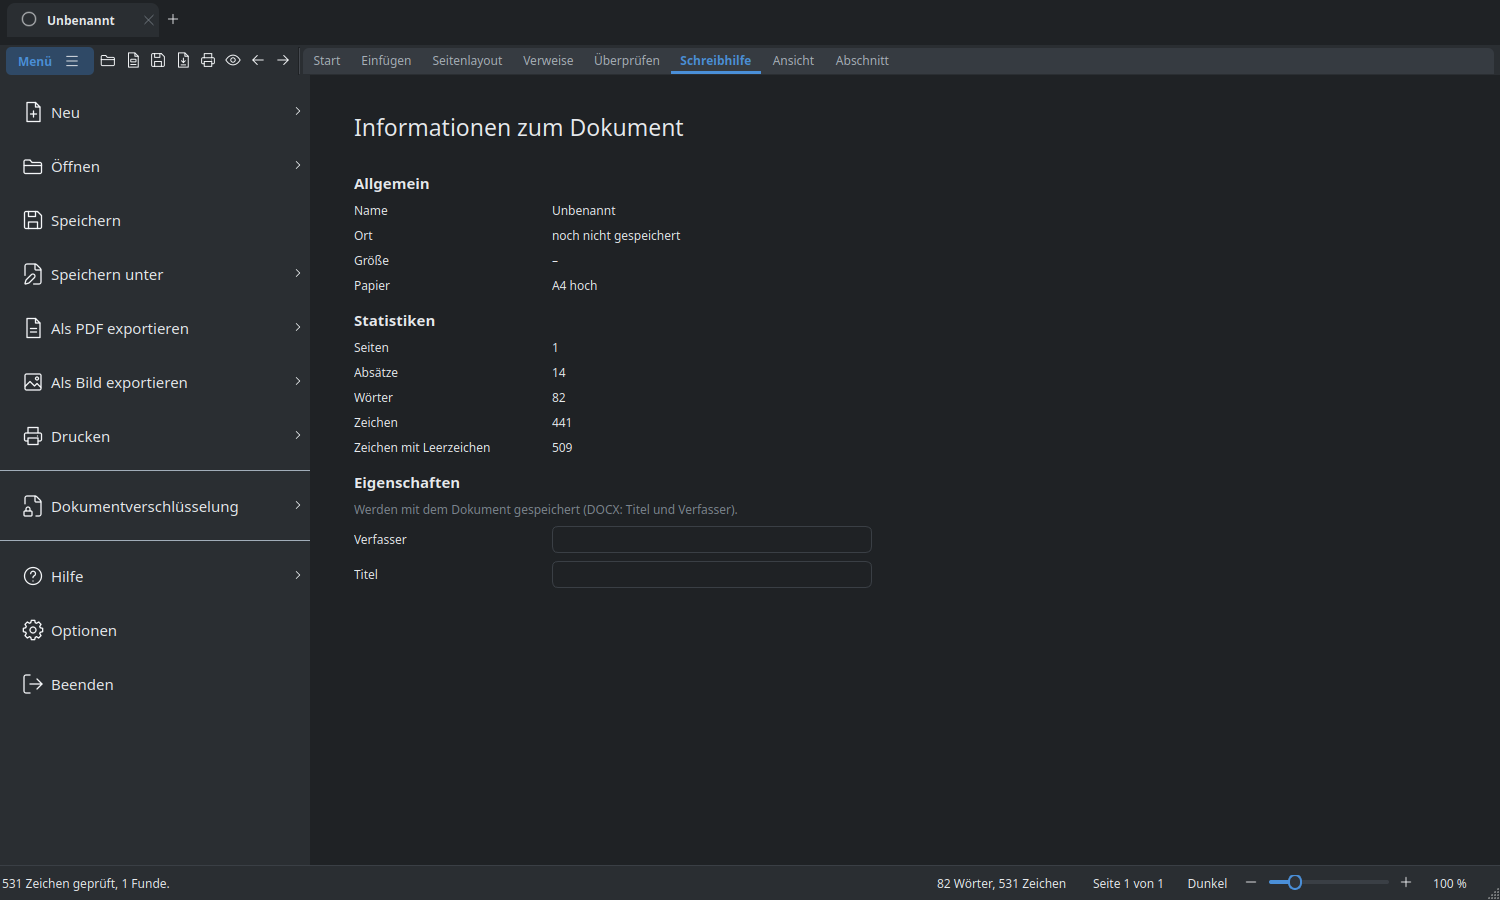
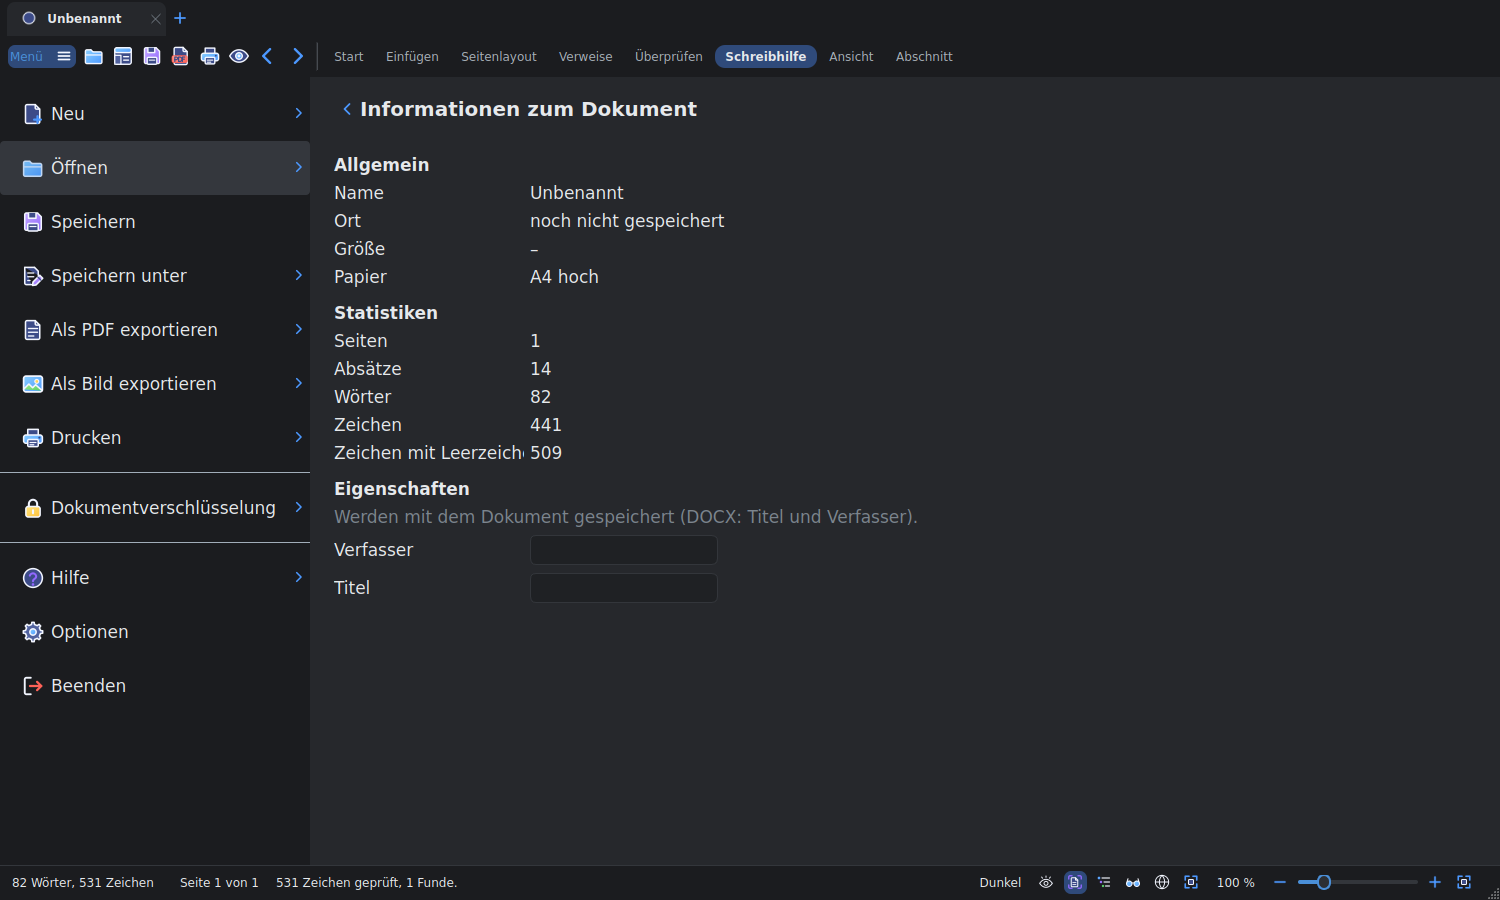
Bildschirmfotos neu aufgenommen: Bilder zeigen die heutige Oberfläche; Aufnahme-Skript läuft wieder
Das Aufnahme-Skript nutzt nicht mehr das entfernte Paket lunivo_writer und nicht mehr
das alte Qt-Dokumentmodell: Fenster mit eigenen, leeren Einstellungsordnern, Text,
Tabelle, Form und Abschnittswechsel über die heutigen Programmbefehle.
Neu: alle qt-*.png, rechtsklick.png, titel-hell/-dunkel.png und titelbild.png.
Außerdem: architektur.png aktualisiert, diagramm.png entfernt.

diff --git a/werkzeuge/erstellung/bildschirmfotos.py b/werkzeuge/erstellung/bildschirmfotos.py
@@ -14,10 +14,17 @@ sys.path.insert(0, os.path.join(WURZEL, "src"))
 os.environ.setdefault("QT_QPA_PLATFORM", "offscreen")
 ZIEL = os.path.join(WURZEL, "ressourcen", "bilder")
 
-from PySide6.QtCore import QEventLoop, QSettings, QTimer  # noqa: E402
+# Eigene, leere Einstellungs- und Datenordner: Die Aufnahmen zeigen den Auslieferungszustand und berühren die echten Benutzerdaten nicht.
+# Das Programm liest seine Orte aus den XDG-Variablen; sie müssen vor dem ersten Import gesetzt sein.
+_ORT = tempfile.mkdtemp(prefix="lunivo-bilder-")
+for _variable, _ordner in (("XDG_CONFIG_HOME", "config"), ("XDG_DATA_HOME", "daten"), ("XDG_CACHE_HOME", "cache"), ("XDG_STATE_HOME", "state")):
+    os.environ[_variable] = os.path.join(_ORT, _ordner)
+    os.makedirs(os.environ[_variable], exist_ok=True)
+
+import framework  # noqa: F401,E402  (meldet dem Kern seine Orte an)
+from PySide6.QtCore import QEventLoop, QTimer  # noqa: E402
 from PySide6.QtWidgets import QApplication  # noqa: E402
 
-from lunivo_writer.dienste.einstellungen_dienst import Settings  # noqa: E402
 from vcl.qt.widgets.dialoge.optionen import OptionenDialog  # noqa: E402
 from vcl.qt.fenster.fenster.programmfenster import MainWindow  # noqa: E402
 from vcl.qt.widgets.bausteine.farben.thema.thema import apply_theme  # noqa: E402
@@ -58,17 +65,21 @@ def warte(ms):
 
 
 def fenster(app, theme, text=BRIEF, groesse=(1500, 900)):
-    ini = os.path.join(tempfile.mkdtemp(), "s.ini")
     apply_theme(app, theme)                   # zuerst das Thema, dann das Fenster: Die Symbole übernehmen die Farben beim Bauen
     symbole.leeren()
-    w = MainWindow(Settings(QSettings(ini, QSettings.IniFormat)))
+    w = MainWindow()
     w.resize(*groesse)
     w.show()
     w.new_document()
     ed = w.current_editor()
-    ed.textCursor().insertText(text)          # Einfügen statt setPlainText: die Seitenränder bleiben erhalten
+    ed.insertPlainText(text)                  # über den Bearbeitungsweg des Programms: die Seitenränder bleiben erhalten
     app.processEvents()
     return w
+
+
+def marke(ed, stelle):
+    """Die Schreibmarke an die Zeichenstelle ``stelle`` setzen (ohne Auswahl)."""
+    ed.select_range(stelle, stelle)
 
 
 def schliessen(w):
@@ -128,15 +139,15 @@ def main():
 
 def zusatzbilder(app):
     """Abschnitte, SmartArt, Form- und Tabellenwerkzeuge, Überprüfen (Vergleichen)."""
-    from PySide6.QtGui import QTextCursor
-    from vcl.qt.rendering.formen import frei_objekt as FO
+    from PySide6.QtCore import QEvent, Qt
+    from PySide6.QtGui import QKeyEvent
+    from vcl.qt.rendering.formen import frei_objekt_aendern
     from vcl.qt.rendering.smartart import smartart as SA
-    from core.tabellen.formatierung import tabellenstil as TS
-    from PySide6.QtGui import QTextTableFormat
 
     w = fenster(app, "light")
+    w.sidebar.setVisible(False)                                                   # Platz für das Querformat des zweiten Abschnitts
     ed = w.current_editor()
-    c = QTextCursor(ed.document()); c.setPosition(ed.document().toPlainText().index("Sehr geehrte")); ed.setTextCursor(c)
+    marke(ed, ed.toPlainText().index("Sehr geehrte"))
     w.befehle.tun('abschnittsumbruch:["NextPage"]')
     ps = ed.abschnitt_seite(); ps.set_orientation(True); ed.page_settings_changed(ps)
     reiter(w, "Abschnitt")
@@ -155,8 +166,8 @@ def zusatzbilder(app):
 
     w = fenster(app, "light", "Formen im Text:\n")
     ed = w.current_editor()
-    FO.einfuegen(ed, "form", {**FO.FORM_STANDARD, "form": "Raute"}, 160, 120)      # freies Objekt, gleich gewählt
-    FO.aendern(ed, "form", form_fuell="#f4a259", form_linie="#9c4f0a")
+    w.befehle.tun('formEinfuegen:["Raute"]')                                      # freies Objekt, gleich gewählt
+    frei_objekt_aendern(ed, "form", form_fuell="#f4a259", form_linie="#9c4f0a")
     w._sync_format()
     reiter(w, "Zeichentools")
     warte(400)
@@ -165,14 +176,13 @@ def zusatzbilder(app):
 
     w = fenster(app, "light", "Quartalszahlen:\n")
     ed = w.current_editor()
-    c = ed.textCursor(); c.movePosition(QTextCursor.End)
-    ed.setTextCursor(c)
-    t = c.insertTable(4, 3, QTextTableFormat())
-    for r, zeile in enumerate((("Quartal", "Umsatz", "Kosten"), ("Q1", "120", "80"), ("Q2", "150", "90"), ("Q3", "170", "110"))):
-        for k, x in enumerate(zeile):
-            t.cellAt(r, k).firstCursorPosition().insertText(x)
-    TS.anwenden(t, "Blau")
-    ed.setTextCursor(t.cellAt(1, 1).firstCursorPosition())
+    ed.insert_table(4, 3)                                                         # die Schreibmarke steht danach in der ersten Zelle
+    zellen = [x for zeile in (("Quartal", "Umsatz", "Kosten"), ("Q1", "120", "80"), ("Q2", "150", "90"), ("Q3", "170", "110")) for x in zeile]
+    for nr, x in enumerate(zellen):
+        if nr:                                                                    # mit der Tabulatortaste in die nächste Zelle, wie am Bildschirm
+            app.sendEvent(ed.ansicht, QKeyEvent(QEvent.KeyPress, Qt.Key_Tab, Qt.NoModifier))
+        ed.insertPlainText(x)
+    ed.tabelle_vorlage_anwenden("Blau", True, True, False)
     w._sync_format()
     reiter(w, "Tabellentools")
     warte(400)
@@ -189,23 +199,22 @@ def zusatzbilder(app):
 def rechtsklick(app):
     """Rechtsklick auf „garnicht“: Menü samt schwebender Formatleiste, in das Fenster hineingemalt."""
     from PySide6.QtCore import QPoint, Qt
-    from PySide6.QtGui import QContextMenuEvent, QPainter, QTextCursor
+    from PySide6.QtGui import QContextMenuEvent, QPainter
     from PySide6.QtWidgets import QMenu
 
     w = fenster(app, "light", "Das Ergebnis ist garnicht schlimm, wenn man es kurz prüft.\n", groesse=(1100, 1050))
     w.sidebar.setVisible(False)
     ed = w.current_editor()
-    c = QTextCursor(ed.document())
-    c.setPosition(ed.document().toPlainText().index("garnicht") + 8)
-    ed.setTextCursor(c)
+    marke(ed, ed.toPlainText().index("garnicht") + 8)
+    warte(1500)                                   # erst die Prüfung beim Schreiben auslaufen lassen: solange sie läuft, wird „Prüfen“ nur vorgemerkt
     w.assistant.pruefen(zaehlen=True)
-    warte(1500)                                   # die Prüfung läuft im Hintergrund; erst danach kennt das Menü den Fund
-    pos = ed.cursorRect(c).center()
+    warte(2500)                                   # die Prüfung läuft im Hintergrund; erst danach kennt das Menü den Fund
+    pos = ed.cursorRect().center()
 
     def aufnehmen():
         bild = w.grab()
         maler = QPainter(bild)
-        for top in app.topLevelWidgets():
+        for top in sorted(app.topLevelWidgets(), key=lambda t: isinstance(t, QMenu)):      # das Menü zuletzt: es liegt über der Formatleiste
             if top is not w and top.isVisible() and top.windowFlags() & (Qt.Popup | Qt.ToolTip | Qt.Tool | Qt.FramelessWindowHint):
                 maler.drawPixmap(w.mapFromGlobal(top.pos()), top.grab())
         maler.end()
@@ -217,7 +226,7 @@ def rechtsklick(app):
                 m.close()
 
     QTimer.singleShot(800, aufnehmen)
-    ed.contextMenuEvent(QContextMenuEvent(QContextMenuEvent.Mouse, pos, ed.mapToGlobal(pos)))
+    ed.ansicht.contextMenuEvent(QContextMenuEvent(QContextMenuEvent.Mouse, pos, ed.ansicht.mapToGlobal(pos)))
     schliessen(w)
 
 
